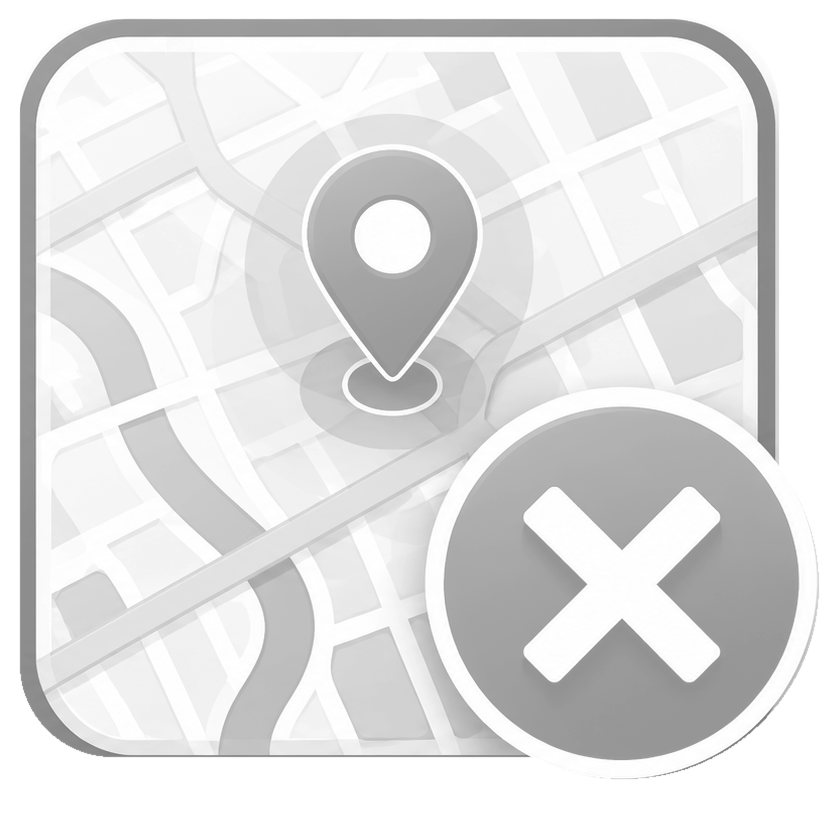
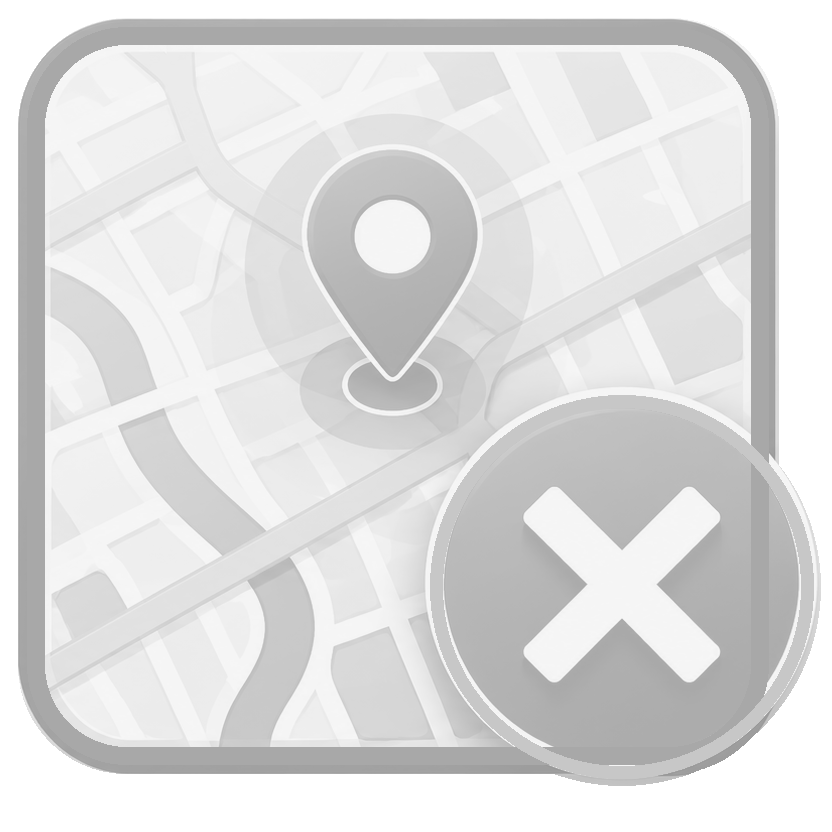
Adjusting 31

Changed region(s): [[0.0, 0.0312, 1.0, 0.9688]]

diff --git a/src/pages/currentInterventionPage/CurrentInterventionPage.tsx b/src/pages/currentInterventionPage/CurrentInterventionPage.tsx
@@ -60,9 +60,9 @@ import {
   type InterventionRevision,
 } from "../../firebase/interventionsService";
 
-import { ReactComponent as AddressConfirmedIcon } from "../../assets/svg/Address confirmed.svg.tsx";
-import { ReactComponent as AddressNotConfirmedIcon } from "../../assets/svg/Address not confirmed.svg.tsx";
-import { ReactComponent as AddressNotConfirmedOffIcon } from "../../assets/svg/Address not confirmed off.svg.tsx";
+import AddressConfirmedArtwork from "../../assets/svg/Address confirmed.png";
+import AddressNotConfirmedArtwork from "../../assets/svg/Address not confirmed.png";
+import AddressNotConfirmedOffArtwork from "../../assets/svg/Address not confirmed off.png";
 import { ReactComponent as LightBulbOffIcon } from "../../assets/svg/Light bulb off.svg.tsx";
 import { ReactComponent as LightBulbOnIcon } from "../../assets/svg/Light bulb on.svg.tsx";
 import { ReactComponent as CopyIcon } from "../../assets/svg/Copy.svg.tsx";
@@ -504,6 +504,18 @@ const CurrentInterventionPage = () => {
   const handleUnifiedCureToggle = () => {
     if (isHistoryView) return;
 
+    // CURE and address confirmation are strictly independent controls.
+    // Preserve the exact address state that existed before this CURE click.
+    const addressStateBeforeCure = addressConfirmation;
+    const preserveAddressState = () => {
+      dispatch(
+        updateField({
+          field: "addressConfirmation",
+          value: addressStateBeforeCure,
+        }),
+      );
+    };
+
     // OFF -> CURE + SMS
     if (!todaysCureKey) {
       if (!nextCureKey) {
@@ -519,6 +531,7 @@ const CurrentInterventionPage = () => {
           smsEnabled: true,
         }),
       );
+      preserveAddressState();
       showActionNotice(
         "cure",
         nextCureKey === "firstCure"
@@ -539,6 +552,7 @@ const CurrentInterventionPage = () => {
           smsEnabled: false,
         }),
       );
+      preserveAddressState();
       showActionNotice(
         "cure",
         todaysCureKey === "firstCure"
@@ -554,6 +568,7 @@ const CurrentInterventionPage = () => {
     // belonging to today; all previous dates remain immutable.
     dispatch(updateField({ field: "smsEnabled", value: false }));
     void dispatch(clearTodaysCuresThunk());
+    preserveAddressState();
   };
 
   const toggleSnowPending = (
@@ -1140,14 +1155,23 @@ const CurrentInterventionPage = () => {
                       disabled={isHistoryView}
                     >
                       <span className="address-cycle-button__stack" aria-hidden="true">
-                        <AddressNotConfirmedOffIcon
+                        <img
+                          src={AddressNotConfirmedOffArtwork}
+                          alt=""
                           className={`address-cycle-button__icon address-cycle-button__icon--off ${addressConfirmation === "none" ? "address-cycle-button__icon--current" : ""}`}
+                          draggable={false}
                         />
-                        <AddressNotConfirmedIcon
+                        <img
+                          src={AddressNotConfirmedArtwork}
+                          alt=""
                           className={`address-cycle-button__icon ${addressConfirmation === "notConfirmed" ? "address-cycle-button__icon--current" : ""}`}
+                          draggable={false}
                         />
-                        <AddressConfirmedIcon
+                        <img
+                          src={AddressConfirmedArtwork}
+                          alt=""
                           className={`address-cycle-button__icon ${addressConfirmation === "confirmed" ? "address-cycle-button__icon--current" : ""}`}
+                          draggable={false}
                         />
                       </span>
                     </button>

diff --git a/src/pages/currentInterventionPage/CurrentInterventionPage.scss b/src/pages/currentInterventionPage/CurrentInterventionPage.scss
@@ -3619,3 +3619,105 @@
     filter: grayscale(1) brightness(1.08) contrast(.78) !important;
   }
 }
+
+/* v105 — surgical icon corrections after visual review */
+.current-intervention-page {
+  /* Old wooden boards, slightly reduced; completely opaque in both states. */
+  .snow-trail-icon__wood-board {
+    width: 66px !important;
+    right: -4px !important;
+    bottom: 0 !important;
+    opacity: 1 !important;
+    filter: none !important;
+  }
+
+  .snow-trail-icon--off .snow-trail-icon__wood-board {
+    opacity: 1 !important;
+    filter: grayscale(1) brightness(1.10) contrast(.76) !important;
+  }
+
+  .snow-trail-icon--active .snow-trail-icon__wood-board {
+    opacity: 1 !important;
+    filter: none !important;
+  }
+
+  /* The source CURE PNGs are now internally enlarged; keep the envelope untouched. */
+  .intervention-option-group__items--six .cure-summary-card__icon {
+    width: 78px !important;
+    height: 78px !important;
+    object-fit: contain !important;
+  }
+
+  /* Address OFF uses only the rounded border contained in the artwork itself. */
+  .address-cycle-button__icon--off {
+    box-shadow: none !important;
+  }
+
+  /* Keep the OFF bulb light internally; do not re-darken the source SVG. */
+  .intervention-option-group__items--six
+    .boolean-input:not(.active) .lightbulb-action-icon--off {
+    opacity: .78 !important;
+    filter: grayscale(1) brightness(1.13) contrast(.70) !important;
+  }
+}
+
+
+/* v106 — direct Address raster rendering + optically larger Résiliation. */
+.current-intervention-page {
+  /* Direct PNGs preserve the artwork's complete rounded lower border. */
+  .address-cycle-button__stack .address-cycle-button__icon {
+    object-fit: contain !important;
+    object-position: center !important;
+    clip-path: none !important;
+    mask: none !important;
+  }
+
+  .address-cycle-button__stack .address-cycle-button__icon--off {
+    box-shadow: none !important;
+  }
+
+  /* Résiliation was still optically undersized beside the other six icons. */
+  .intervention-option-group__items--six .res-pending-button__icon {
+    width: 77px !important;
+    height: 77px !important;
+    object-fit: contain !important;
+  }
+}
+
+/* v107 — final Snow opacity + complete OFF address border correction */
+.current-intervention-page {
+  /* The wooden board itself is now a clean opaque asset. Keep it compact and
+     slightly overlapping the lower-right of the snowflake. */
+  .snow-trail-icon__wood-board {
+    width: 62px !important;
+    right: -2px !important;
+    bottom: 0 !important;
+    opacity: 1 !important;
+    object-fit: contain !important;
+  }
+
+  .snow-trail-icon--active .snow-trail-icon__wood-board {
+    opacity: 1 !important;
+    filter: none !important;
+  }
+
+  .snow-trail-icon--off .snow-trail-icon__wood-board {
+    opacity: 1 !important;
+    filter: grayscale(1) brightness(1.10) contrast(.76) !important;
+  }
+
+  /* OFF address uses the rebuilt no-shadow raster with a physically complete
+     rounded lower edge. Never crop/mask it in CSS. */
+  .address-cycle-button__stack,
+  .address-cycle-button__stack .address-cycle-button__icon {
+    overflow: visible !important;
+    clip-path: none !important;
+    mask: none !important;
+  }
+
+  .address-cycle-button__stack .address-cycle-button__icon--off {
+    object-fit: contain !important;
+    object-position: center !important;
+    box-shadow: none !important;
+  }
+}

diff --git a/src/assets/svg/Address not confirmed off.svg.tsx b/src/assets/svg/Address not confirmed off.svg.tsx
@@ -28,13 +28,7 @@ const AddressNotConfirmedOffIcon = forwardRef<SVGSVGElement, AddressNotConfirmed
         height="256"
         preserveAspectRatio="xMidYMid meet"
       />
-      <path
-        d="M35 236 H145"
-        stroke="#9FA4AA"
-        strokeWidth="5"
-        strokeLinecap="round"
-      />
-    </svg>
+</svg>
   ),
 );
 
